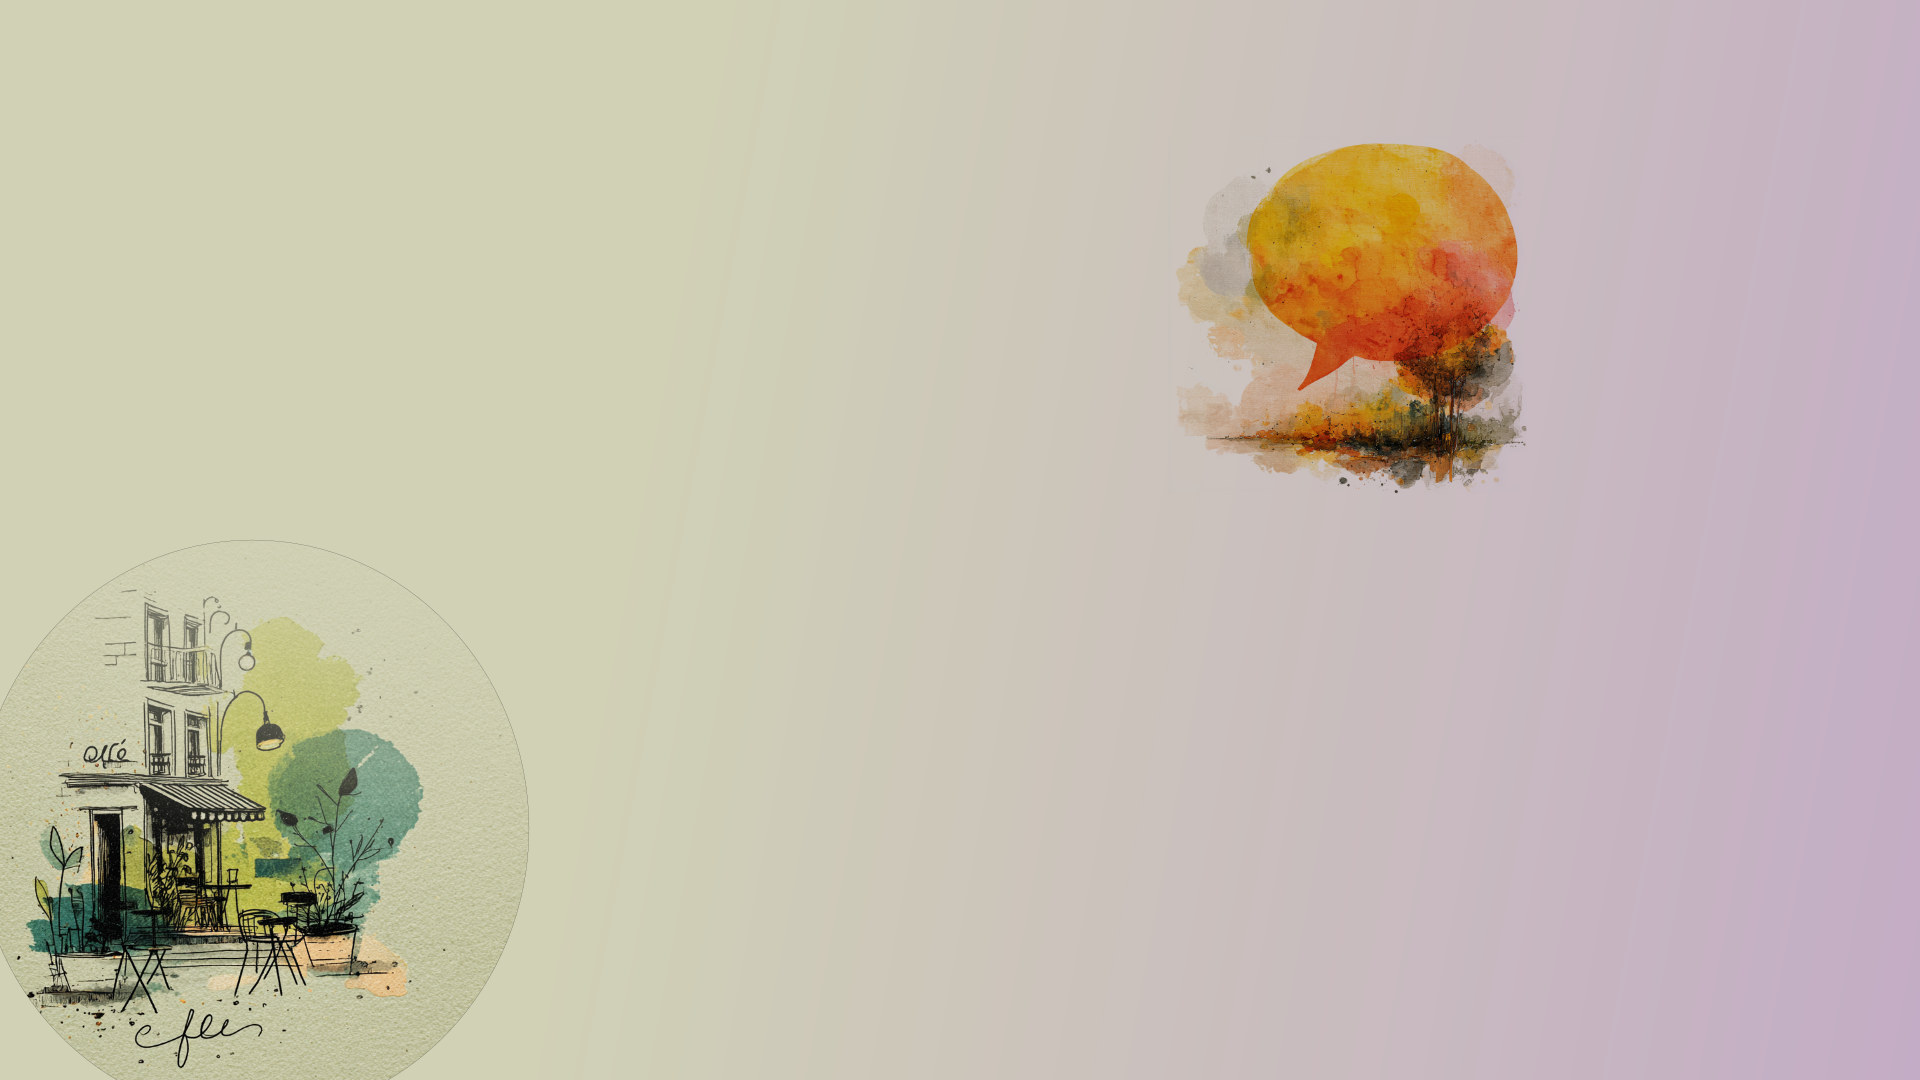
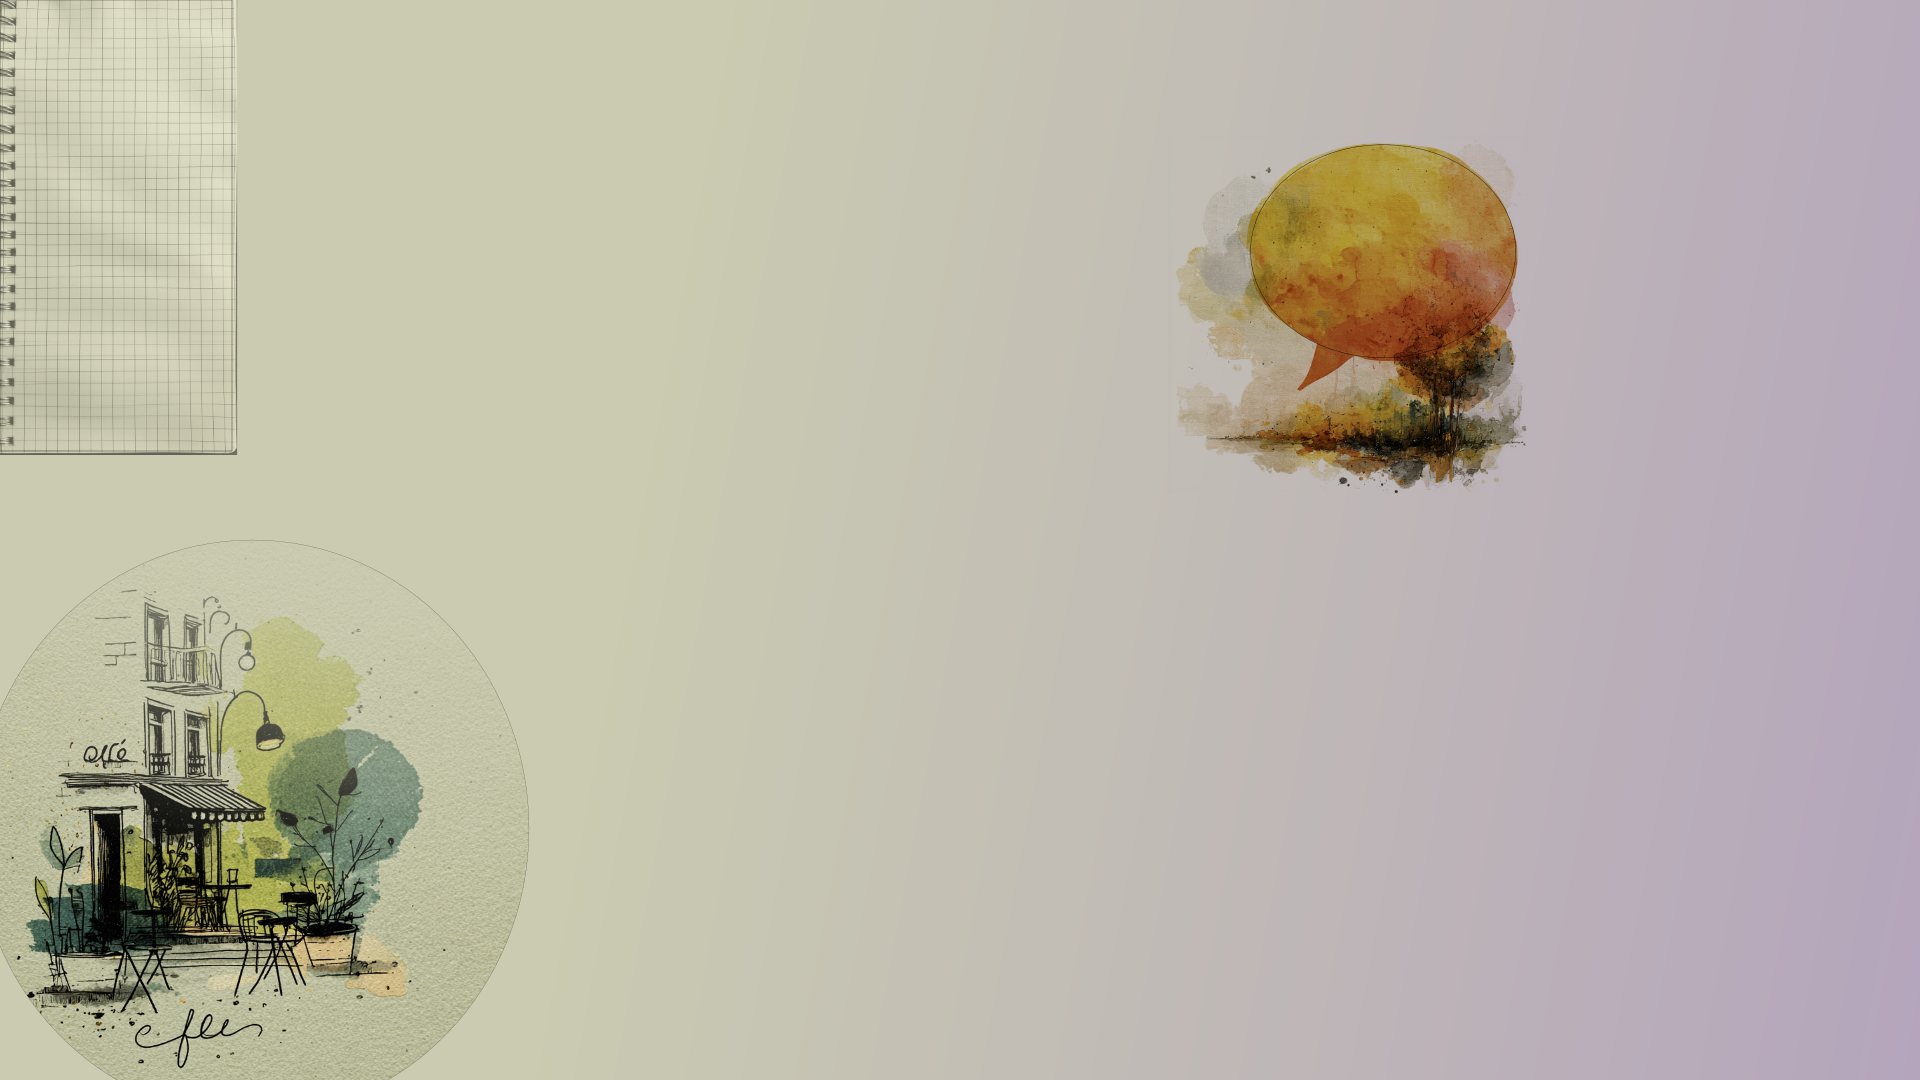
add notebook

diff --git a/old_index.html b/old_index.html
@@ -18,8 +18,7 @@
             background-color: #d4cfc4;
         }
 
-        /* Background fills viewport, letterboxed (contain) so hotspot
-           percentages map 1:1 to the 8000x4500 illustration space */
+        /* Background image fills viewport, letterboxed if needed */
         .bg {
             position: absolute;
             inset: 0;
@@ -29,7 +28,10 @@
             object-position: center center;
         }
 
-        /* Hotspot overlay — same aspect ratio as illustration */
+        /*
+         * Hotspot overlay — same aspect ratio as the image (8000 x 4500 = 16:9)
+         * so percentage positions map exactly to image coordinates.
+         */
         .hotspots {
             position: absolute;
             inset: 0;
@@ -38,7 +40,6 @@
             justify-content: center;
         }
 
-        /* This frame matches the image's rendered size exactly */
         .hotspot-frame {
             position: relative;
             width: 100%;
@@ -48,78 +49,53 @@
         }
 
         /*
-         * Hotspot formula (all coordinates in 8000x4500 space):
+         * Each hotspot is an <a> tag positioned by percentages.
          *
-         * For ELLIPSES:
+         * Formula (all values from the SVG's 8000x4500 coordinate space):
          *   left:   (cx - rx) / 8000 * 100%
          *   top:    (cy - ry) / 4500 * 100%
          *   width:  (rx * 2)  / 8000 * 100%
          *   height: (ry * 2)  / 4500 * 100%
-         *   border-radius: 50%
-         *
-         * For RECTS:
-         *   left:   x / 8000 * 100%
-         *   top:    y / 4500 * 100%
-         *   width:  w / 8000 * 100%
-         *   height: h / 4500 * 100%
          *
          * To add a new hotspot:
-         *   1. Export a shape-only SVG from Affinity (hide all other layers)
-         *   2. Note the shape coords + any group transforms, note the viewBox
-         *   3. Scale coords to 8000x4500 space
-         *   4. Copy a hotspot block below and plug in the numbers
+         *   1. Export an ellipse-only SVG from Affinity (hide all other layers)
+         *   2. Note cx, cy, rx, ry — apply any group transforms if present
+         *   3. Scale to 8000x4500 space if viewBox differs
+         *   4. Copy a hotspot block below, plug in the numbers
          */
         .hotspot {
             position: absolute;
+            border-radius: 50%;
             cursor: pointer;
-            /* Debug: uncomment to visualize hotspot bounds
+            /* Uncomment to debug hotspot positions:
             background: rgba(255,0,0,0.2);
             border: 2px solid red; */
         }
 
-        /* ─── NOTEBOOK → justedit ──────────────────────────────────────
-         * Source: justedit/notebook.svg  viewBox="0 0 1920 1080"
-         * rect x=0 y=0 width=232 height=451  (no transform)
-         * Scale factor: 8000/1920 = 4.1667x, 4500/1080 = 4.1667x
-         * In 8000x4500: x=0 y=0 w=966.7 h=1879.2
-         */
-        .hotspot-notebook {
-            left:   calc(0 / 8000 * 100%);
-            top:    calc(0 / 4500 * 100%);
-            width:  calc(966.7 / 8000 * 100%);
-            height: calc(1879.2 / 4500 * 100%);
-            border-radius: 4px;
-        }
-
         /* ─── COFFEE SHOP → fast-french ───────────────────────────────
-         * Source: kt_hotspots.svg  viewBox="0 0 8000 4500"
-         * ellipse cx=1052.083 cy=3452.083 rx=1152.083 ry=1202.083
+         * Source: kt_hotspots.svg (8000x4500)
+         * cx=1052.083  cy=3452.083  rx=1152.083  ry=1202.083
          */
         .hotspot-coffee {
             left:   calc((1052.083 - 1152.083) / 8000 * 100%);
             top:    calc((3452.083 - 1202.083) / 4500 * 100%);
             width:  calc(1152.083 * 2 / 8000 * 100%);
             height: calc(1202.083 * 2 / 4500 * 100%);
-            border-radius: 50%;
         }
 
-        /* ─── TEXT BUBBLE → SMS dialog ─────────────────────────────────
-         * Source: TextMe_Bubble.svg  viewBox="0 0 1920 1080"
-         * ellipse cx=1481.5 cy=259 rx=126.5 ry=117
-         * group transform: matrix(1.055336,0,0,0.923077,-179.980237,11.923077)
-         *   cx_t = 1481.5*1.055336 + (-179.980237) = 1382.95
-         *   cy_t = 259*0.923077 + 11.923077 = 250.92
-         *   rx_t = 126.5*1.055336 = 133.5
-         *   ry_t = 117*0.923077 = 108.0
-         * Scale to 8000x4500 (factor 4.1667x):
-         *   cx=5762.3  cy=1045.5  rx=556.3  ry=450.0
+        /* ─── TEXT BUBBLE → SMS ────────────────────────────────────────
+         * Source: TextMe_Bubble.svg (1920x1080, scaled 4.1667x to 8000x4500)
+         * Raw ellipse: cx=1481.5 cy=259 rx=126.5 ry=117
+         * After group transform matrix(1.055336,0,0,0.923077,-179.98,11.92):
+         *   cx=1383.1  cy=251.0  rx=133.5  ry=108.0
+         * Scaled to 8000x4500:
+         *   cx=5762.8  cy=1045.9  rx=556.3  ry=450.0
          */
         .hotspot-textme {
-            left:   calc((5762.3 - 556.3) / 8000 * 100%);
-            top:    calc((1045.5 - 450.0) / 4500 * 100%);
+            left:   calc((5762.8 - 556.3) / 8000 * 100%);
+            top:    calc((1045.9 - 450.0) / 4500 * 100%);
             width:  calc(556.3  * 2 / 8000 * 100%);
             height: calc(450.0  * 2 / 4500 * 100%);
-            border-radius: 50%;
         }
 
         /* ─── SMS DIALOG ─────────────────────────────────────────────── */
@@ -228,11 +204,12 @@
             transform: scale(0.96);
         }
 
+        /* Paper airplane SVG icon */
         .sms-send svg {
             width: 18px;
             height: 18px;
             fill: white;
-            transform: translateX(1px);
+            transform: translateX(1px); /* optical centering */
         }
 
     </style>
@@ -244,21 +221,18 @@
     <div class="hotspots">
         <div class="hotspot-frame">
 
-            <!-- NOTEBOOK → Just Edit -->
-            <a class="hotspot hotspot-notebook"
-               href="justedit/justedit.html"
-               title="Open notebook"></a>
-
             <!-- COFFEE SHOP → Fast French -->
-            <a class="hotspot hotspot-coffee"
-               href="https://www.kevintraywick.com/fast-french"
-               title="Fast French"></a>
+            <a  class="hotspot hotspot-coffee"
+                href="https://www.kevintraywick.com/fast-french"
+                title="Fast French">
+            </a>
 
-            <!-- TEXT BUBBLE → SMS dialog -->
-            <a class="hotspot hotspot-textme"
-               href="#"
-               title="Text Kevin"
-               onclick="openSMS(event)"></a>
+            <!-- TEXT BUBBLE → opens SMS dialog -->
+            <a  class="hotspot hotspot-textme"
+                href="#"
+                title="Text Kevin"
+                onclick="openSMS(event)">
+            </a>
 
         </div>
     </div>
@@ -271,6 +245,7 @@
             <div class="sms-actions">
                 <button class="sms-cancel" onclick="closeSMS()">Cancel</button>
                 <button class="sms-send" onclick="sendSMS()" title="Send">
+                    <!-- Paper airplane -->
                     <svg viewBox="0 0 24 24" xmlns="http://www.w3.org/2000/svg">
                         <path d="M2.01 21L23 12 2.01 3 2 10l15 2-15 2z"/>
                     </svg>
@@ -280,7 +255,7 @@
     </div>
 
     <script>
-        const YOUR_NUMBER = '+12068608292';
+        const YOUR_NUMBER = '+12068608292'; // ← replace with your number
 
         function openSMS(e) {
             e.preventDefault();
@@ -294,6 +269,7 @@
         }
 
         function overlayClick(e) {
+            // close if clicking the backdrop, not the dialog
             if (e.target === document.getElementById('smsOverlay')) closeSMS();
         }
 
@@ -304,6 +280,7 @@
             closeSMS();
         }
 
+        // Allow Cmd/Ctrl+Enter to send
         document.getElementById('smsText').addEventListener('keydown', function(e) {
             if ((e.metaKey || e.ctrlKey) && e.key === 'Enter') sendSMS();
         });

diff --git a/JustEdit/index.html b/JustEdit/index.html
@@ -108,7 +108,7 @@
   </div>
 
   <div class="wrap">
-	<textarea id="editor" placeholder="Start writing… (paste is allowed)"></textarea>
+	<textarea id="editor" placeholder="Leave a note…"></textarea>
 	<div class="hint">
 	  Tips: <span class="kbd">⌘/Ctrl + V</span> paste • <span class="kbd">⌘/Ctrl + S</span> download • <span class="kbd">Esc</span> exit fullscreen • Focus hides the top bar.
 	</div>
